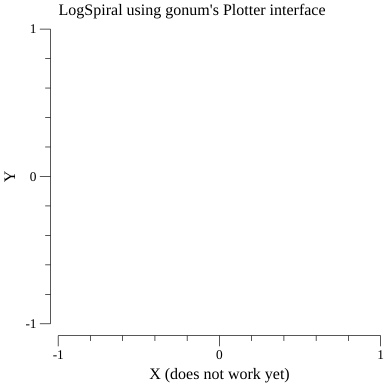
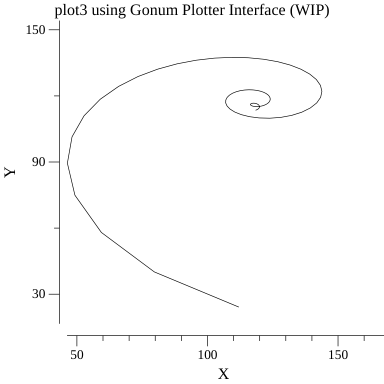
add a first draft of Plotter interface implementation

diff --git a/plot.go b/plot.go
@@ -12,21 +12,29 @@ import (
 
 // Curve defines a 3D Curve. Points are ordered
 type Curve struct {
-	XYZs
+	// hide the load of interfaces normal users don't need to use
+	points path
 	color.Color
+}
+
+// path hides away 3D graphing utility interfaces to reduce
+// Method bloat in normal use of Curve type
+type path struct {
+	XYZs
 	minXYZ struct{ X, Y, Z float64 }
 	maxXYZ struct{ X, Y, Z float64 }
+	path   vg.Path
 }
 
 // NewCurve Creates new curve ready to graph from XYZer
 func NewCurve(xyz XYZer) Curve {
 	c := Curve{}
-	c.minXYZ.X, c.minXYZ.Y, c.minXYZ.Z = xyz.XYZ(0)
-	c.maxXYZ.X, c.maxXYZ.Y, c.maxXYZ.Z = xyz.XYZ(0)
-	c.XYZs = CopyXYZs(xyz)
-	for i := range c.XYZs {
-		x, y, z := c.XYZ(i)
-		updateBounds(&c, x, y, z)
+	c.points.minXYZ.X, c.points.minXYZ.Y, c.points.minXYZ.Z = xyz.XYZ(0)
+	c.points.maxXYZ.X, c.points.maxXYZ.Y, c.points.maxXYZ.Z = xyz.XYZ(0)
+	c.points.XYZs = CopyXYZs(xyz)
+	for i := range c.points.XYZs {
+		x, y, z := c.points.XYZ(i)
+		updateBounds(&c.points, x, y, z)
 	}
 	return c
 }
@@ -34,28 +42,12 @@ func NewCurve(xyz XYZer) Curve {
 // Plot implements gonum's Plotter interface
 func (c Curve) Plot(canvas draw.Canvas, plt *plot.Plot) {
 	const FOVAngle, nearestPoint = 90., 0.1
-	plt.X.Min, plt.Y.Min, _ = c.Min()
-	plt.X.Max, plt.Y.Max, _ = c.Max()
+	// plt.X.Min, plt.Y.Min, _ = c.Min()
+	// plt.X.Max, plt.Y.Max, _ = c.Max()
 
 	trX, trY := plt.Transforms(&canvas)
-
-	scene := ln.Scene{}
-	scene.Add(c)
-	// calculate viewing limits
-	xl, yl, zl := c.Min()
-	xg, yg, zg := c.Max()
-	maxAbs := math.Max(xg, math.Max(yg, zg))
-	distance := math.Sqrt(math.Pow(xg-xl, 2) + math.Pow(yg-yl, 2) + math.Pow(zg-zl, 2))
-
-	// ISO view
-	eye := ln.Vector{X: maxAbs, Y: maxAbs, Z: maxAbs}
-	center := ln.Vector{X: 0, Y: 0, Z: 0}
-	up := ln.Vector{X: 0, Y: 0, Z: 1}
 	size := canvas.Size()
-
-	trfmPaths := scene.Render(eye, center, up,
-		size.X.Points(), size.Y.Points(), FOVAngle, nearestPoint, distance, 0.01)
-
+	trfmPaths := c.planarPaths(size.X.Points(), size.Y.Points())
 	canvas.SetColor(c.Color)
 	// plt lims hack
 
@@ -67,9 +59,33 @@ func (c Curve) Plot(canvas draw.Canvas, plt *plot.Plot) {
 			p.Move(vg.Point{X: x1, Y: y1})
 			p.Line(vg.Point{X: x2, Y: y2})
 		}
-		p.Close()
-		canvas.Fill(p)
+		canvas.Stroke(p)
 	}
+}
+
+func (c Curve) planarPaths(width, height float64) ln.Paths {
+	const FOVAngle, nearestPoint, stepDetail = 90., 0.1, 0.01
+	scene := ln.Scene{}
+	scene.Add(c.points)
+	// calculate viewing limits
+	xl, yl, zl := c.points.Min()
+	xg, yg, zg := c.points.Max()
+	maxAbs := math.Max(xg, math.Max(yg, zg))
+	distance := math.Sqrt(math.Pow(xg-xl, 2) + math.Pow(yg-yl, 2) + math.Pow(zg-zl, 2))
+
+	// ISO view
+	eye, center, up := isoview(maxAbs)
+	return scene.Render(eye, center, up,
+		width, height, FOVAngle, nearestPoint, distance, stepDetail)
+}
+
+// DataRange implements DataRanger interface
+func (c Curve) DataRange() (xmin, xmax, ymin, ymax float64) {
+	paths := c.planarPaths(c.points.CharLength(), c.points.CharLength())
+	box := paths.BoundingBox()
+	xmax, ymax = box.Max.X, box.Max.Y
+	xmin, ymin = box.Min.X, box.Min.Y
+	return xmin, xmax, ymin, ymax
 }
 
 // Plot does a 3D lineplot using fogleman/ln library
@@ -77,12 +93,12 @@ func Plot(filename string, xyz XYZer) {
 	scene := ln.Scene{}
 	c := NewCurve(xyz)
 	// calculate viewing limits
-	xl, yl, zl := c.Min()
-	xg, yg, zg := c.Max()
+	xl, yl, zl := c.points.Min()
+	xg, yg, zg := c.points.Max()
 	maxAbs := math.Max(xg, math.Max(yg, zg))
 	distance := math.Sqrt(math.Pow(xg-xl, 2) + math.Pow(yg-yl, 2) + math.Pow(zg-zl, 2))
 
-	scene.Add(c)
+	scene.Add(c.points)
 	width := 750.0
 	height := 750.0
 	// ISO view
@@ -97,36 +113,82 @@ func Plot(filename string, xyz XYZer) {
 // Min returns minimum x, y and z values of a Curve.
 //
 // The numbers returned do NOT define a point of the Curve.
-func (c Curve) Min() (float64, float64, float64) {
-	return c.minXYZ.X, c.minXYZ.Y, c.minXYZ.Z
+func (p path) Min() (float64, float64, float64) {
+	return p.minXYZ.X, p.minXYZ.Y, p.minXYZ.Z
 }
 
 // Max Like Min but maximum values
-func (c Curve) Max() (float64, float64, float64) {
-	return c.maxXYZ.X, c.maxXYZ.Y, c.maxXYZ.Z
+func (p path) Max() (float64, float64, float64) {
+	return p.maxXYZ.X, p.maxXYZ.Y, p.maxXYZ.Z
 }
 
 // BoundingBox ln.Shape interface implementation
-func (c Curve) BoundingBox() ln.Box {
-	return ln.Box{Min: ln.Vector(c.maxXYZ), Max: ln.Vector(c.maxXYZ)}
+func (p path) BoundingBox() ln.Box {
+	return ln.Box{Min: ln.Vector(p.maxXYZ), Max: ln.Vector(p.maxXYZ)}
 }
 
 // Compile ln.Shape interface implementation
-func (c Curve) Compile() {}
+func (p path) Compile() {}
 
 // Contains ln.Shape interface implementation
-func (c Curve) Contains(ln.Vector, float64) bool { return false }
+func (p path) Contains(ln.Vector, float64) bool { return false }
 
 // Intersect ln.Shape interface implementation
-func (c Curve) Intersect(ln.Ray) ln.Hit { return ln.NoHit }
+func (p path) Intersect(ln.Ray) ln.Hit { return ln.NoHit }
 
 // Paths ln.Shape interface implementation
-func (c Curve) Paths() ln.Paths { return ln.Paths{ln.Path(c.XYZs)} }
+func (p path) Paths() ln.Paths { return ln.Paths{ln.Path(p.XYZs)} }
 
 // updateBounds min/max values of curve to then save compute time on
 // visualization calculations
-func updateBounds(c *Curve, x, y, z float64) {
-	c.minXYZ.X, c.maxXYZ.X = math.Min(c.minXYZ.X, x), math.Max(c.maxXYZ.X, x)
-	c.minXYZ.Y, c.maxXYZ.Y = math.Min(c.minXYZ.Y, y), math.Max(c.maxXYZ.Y, y)
-	c.minXYZ.Z, c.maxXYZ.Z = math.Min(c.minXYZ.Z, z), math.Max(c.maxXYZ.Z, z)
+func updateBounds(p *path, x, y, z float64) {
+	p.minXYZ.X, p.maxXYZ.X = math.Min(p.minXYZ.X, x), math.Max(p.maxXYZ.X, x)
+	p.minXYZ.Y, p.maxXYZ.Y = math.Min(p.minXYZ.Y, y), math.Max(p.maxXYZ.Y, y)
+	p.minXYZ.Z, p.maxXYZ.Z = math.Min(p.minXYZ.Z, z), math.Max(p.maxXYZ.Z, z)
+}
+
+func (p path) CompileVGPath() vg.Path {
+	const FOVAngle, nearestPoint = 90., 0.1
+
+	scene := ln.Scene{}
+	scene.Add(p)
+	// calculate viewing limits
+	xl, yl, zl := p.Min()
+	xg, yg, zg := p.Max()
+	maxAbs := math.Max(xg, math.Max(yg, zg))
+
+	distance := math.Sqrt(math.Pow(xg-xl, 2) + math.Pow(yg-yl, 2) + math.Pow(zg-zl, 2))
+
+	// ISO view
+	eye, center, up := isoview(maxAbs)
+
+	trfmPaths := scene.Render(eye, center, up,
+		1000, 1000, FOVAngle, nearestPoint, distance, 0.01)
+
+	var vgp vg.Path
+	// There should be only one path
+	path := trfmPaths[0]
+	for i := range trfmPaths[0][:len(path)-2] {
+		x1, x2 := vg.Length(path[i].X), vg.Length(path[i+1].X)
+		y1, y2 := vg.Length(path[i].Y), vg.Length(path[i+1].Y)
+		vgp.Move(vg.Point{X: x1, Y: y1})
+		vgp.Line(vg.Point{X: x2, Y: y2})
+	}
+	return vgp
+}
+
+// isoview takes a characteristic distance of the graph
+// and returns a normalized view configuration (ISO view)
+func isoview(λ float64) (eye ln.Vector, center ln.Vector, up ln.Vector) {
+	eye = ln.Vector{X: λ, Y: λ, Z: λ}
+	center = ln.Vector{X: 0, Y: 0, Z: 0}
+	up = ln.Vector{X: 0, Y: 0, Z: 1}
+	return eye, center, up
+}
+
+//
+func (p path) CharLength() float64 {
+	return math.Sqrt(math.Pow(p.maxXYZ.X-p.minXYZ.X, 2) +
+		math.Pow(p.maxXYZ.Y-p.minXYZ.Y, 2) +
+		math.Pow(p.maxXYZ.Z-p.minXYZ.Z, 2))
 }

diff --git a/plot_test.go b/plot_test.go
@@ -1,7 +1,6 @@
 package plot3_test
 
 import (
-	"image/color"
 	"math"
 	"testing"
 
@@ -51,11 +50,11 @@ func TestPlotter(t *testing.T) {
 	if err != nil {
 		panic(err)
 	}
-	p.Title.Text = "LogSpiral using gonum's Plotter interface"
-	p.X.Label.Text = "X (does not work yet)"
+	p.Title.Text = "plot3 using Gonum Plotter Interface (WIP)"
+	p.X.Label.Text = "X "
 	p.Y.Label.Text = "Y"
 	c := plot3.NewCurve(logSpiral)
-	c.Color = color.RGBA{R: 196, B: 128, A: 255}
+	// c.Color = color.RGBA{R: 196, B: 128, A: 255}
 	p.Add(c)
 	if err := p.Save(4*vg.Inch, 4*vg.Inch, "logspiral.png"); err != nil {
 		panic(err)
